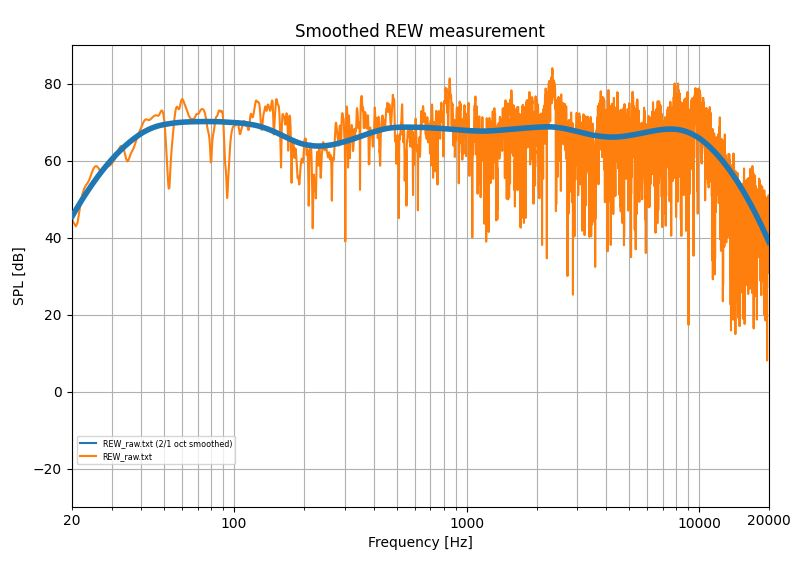
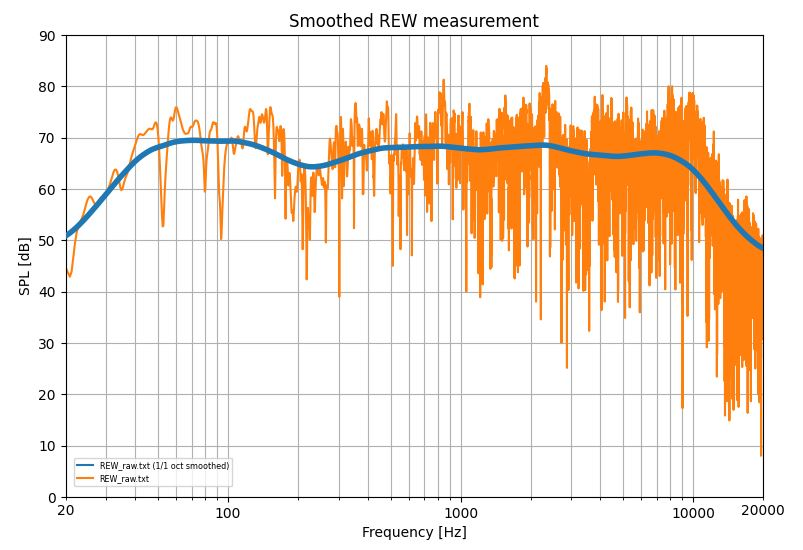
Fix smoothing, use 1th order polynom and nearest extension

Changed region(s): [[0.0, 0.0309, 0.9963, 0.9891]]

diff --git a/FreqRespGraph.py b/FreqRespGraph.py
@@ -151,9 +151,9 @@ def drawCurve(filename, ax, alignmin, alignmax, isref, csv_delimiter=',', xref =
 
         if(window_size > 1):
             # Smooth curve using Savitzky-Golay filter of calculated window size, run it from bottom to top and vice versa
-            y_smoothed = savgol_filter(y_smoothed, window_size, 2)
+            y_smoothed = savgol_filter(y_smoothed, window_size, 1, mode='nearest')
             y_smoothed = np.flip(y_smoothed)
-            y_smoothed = savgol_filter(y_smoothed, window_size, 2)
+            y_smoothed = savgol_filter(y_smoothed, window_size, 1, mode='nearest')
             y_smoothed = np.flip(y_smoothed)
         (line, ) = ax.plot(x_smoothed, y_smoothed, '-', lw=1.5, label=os.path.basename(filename)+' ('+ smoothstr + ' oct smoothed)')
         lines.append(line)

diff --git a/README.md b/README.md
@@ -66,7 +66,7 @@ The following examples use the headphone measurment and target curves provided b
 ![SennheiserHD650_2](./examples/SennheiserHD650_2.JPG)
 13. Grado GS1000 equalized by PEQ filters: `python FreqRespGraph\FreqRespGraph.py --alignmin 200 --alignmax 2000 --refcurve "AutoEq\targets\Harman over-ear 2018.csv" --title "Equalizing Grado GS1000" --files "AutoEq\measurements\Innerfidelity\data\over-ear\Grado GS1000.csv" --peq LOWSHELF,40,1,6 PEAK,83,1.1,-3 PEAK,4380,2.0,-3.4 PEAK,6400,2.0,-5.3 PEAK,11200,2.0,-8`
 ![GradoGS1000Eq](./examples/GradoGS1000Eq.JPG)
-14. Loudspeaker frequency response exported by REW with smoothed curve: `python FreqRespGraph\FreqRespGraph.py --csvdelimiter " " --ymax=90 --smooth 2/1 --title "Smoothed REW measurement" --files REW_raw.txt`
+14. Loudspeaker frequency response exported by REW with smoothed curve: `python FreqRespGraph\FreqRespGraph.py --csvdelimiter " " --ymin=0 --ymax=90 --smooth 1/1 --title "Smoothed REW measurement" --files REW_raw.txt`
 ![REW_smoothing](./examples/REW_smoothing.JPG)
 
 # Tips
@@ -75,7 +75,7 @@ The following examples use the headphone measurment and target curves provided b
 3. Complex wildcard file patterns could be used. It is implemented using [glob](https://docs.python.org/3/library/glob.html). E.g. something like `--files AutoEq\measurements\*\*\*\Sennheiser*.csv` can be used.
 4. Compensation according to reference curve is faster if reference curve and data curve contain the exact same frequencies. Otherwise interpolation of the reference curve data is used to compensate the data curves. In this case data which is not within the frequency range of the reference curve will not be displayed.
 5. PEQ shelf filter ignore the Q setting, shelf filters use a fixed Q=1/SQRT(2).
-6. Smoothing uses a Savitzky-Golay filter of given octave fraction length. The algorithm is very different to e.g. the one used by [REW](https://www.roomeqwizard.com/help/help_en-GB/html/graph.html#top). You need to specify about twice the width the get similar results as when using REW.
+6. Smoothing uses a Savitzky-Golay filter of given octave fraction length with 1th order polynomial. The algorithm is very different to e.g. the one used by [REW](https://www.roomeqwizard.com/help/help_en-GB/html/graph.html#top). Results are very similar but not identical to REW.
   
 # References
 1. Jaakko Pasanen, AutoEq, https://github.com/jaakkopasanen/AutoEq, https://autoeq.app/
